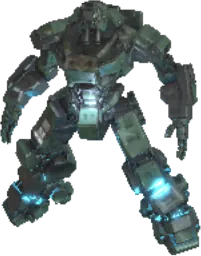
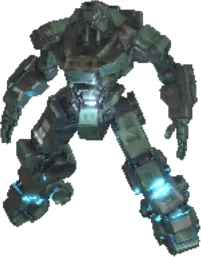
Presenting gesture: open "here it is" arms instead of a raised forearm
The far forearm pointed almost straight up, which read as an Egyptian
pose. Both arms now reach toward the description: the far arm out at
about shoulder height with a soft elbow, the near forearm level at the
waist. The guide stills are re-rendered from the live scene to match.

diff --git a/src/styles/editorial-refinements.css b/src/styles/editorial-refinements.css
@@ -206,16 +206,16 @@ body.overflow-x-hidden { overflow-x: clip; }
    the intro script in px, and scaled with viewport height like the 3D camera.
    Its feet anchor matches the 3D model's origin. Never mirrored: a flat
    image flipping sides reads as a card flip; only the live 3D guide turns. */
-.guide-poster { position: fixed; left: 0; top: 0; z-index: 5; height: 30.667vh; height: 30.667dvh;
+.guide-poster { position: fixed; left: 0; top: 0; z-index: 5; height: 29.333vh; height: 29.333dvh;
   translate: var(--guide-x, 34vw) var(--guide-y, 80vh); pointer-events: none;
   transition: opacity .6s ease; }
-.guide-poster img { display: block; width: auto; height: 100%; translate: -36.23% -85.14%;
+.guide-poster img { display: block; width: auto; height: 100%; translate: -34.18% -84.28%;
   animation: guide-hover 4.5s ease-in-out infinite; }
 .guide-poster.is-away, .guide-poster.is-live { opacity: 0; }
 .guide-poster.is-live img { animation-play-state: paused; }
 @keyframes guide-hover { 0%, 100% { transform: translateY(0); } 50% { transform: translateY(-1.2%); } }
 @media (max-width: 699px) {
-  .guide-poster { height: 15.166vh; height: 15.166dvh; translate: var(--guide-x, 22vw) var(--guide-y, 72vh); }
-  .guide-poster img { translate: -25.17% -63.42%; }
+  .guide-poster { height: 15.225vh; height: 15.225dvh; translate: var(--guide-x, 22vw) var(--guide-y, 72vh); }
+  .guide-poster img { translate: -25.17% -63.18%; }
 }
 @media (prefers-reduced-motion: reduce) { .guide-poster, .guide-poster img { animation: none; transition: opacity .3s ease; } }

diff --git a/src/components/presentation.js b/src/components/presentation.js
@@ -9,13 +9,16 @@ export const PRESENTATION_CHAINS = {
   hand_r_041: 'middle1_r_043',
 };
 
-// One hand frames the description above, the other presents it below.
-// Mirrored in character space rather than reusing unlike local bone axes.
+// A "here it is" presenting gesture: both arms reach toward the description.
+// The far arm extends out at about shoulder height with a soft elbow (forearm
+// angled up-and-out, never vertical), the near arm rests by the body with its
+// forearm level. Mirrored in character space rather than reusing unlike local
+// bone axes.
 export function presentationDirection(name, side) {
   const raised = side > 0 ? name.includes('_l_') : name.includes('_r_');
-  if (name.startsWith('arm_')) return raised ? [side * 0.52, 0.16, 0.30] : [side * 0.28, -0.85, 0.20];
-  if (name.startsWith('forearm_')) return raised ? [side * 0.5, 0.8, 0.25] : [side * 0.8, 0.12, 0.55];
-  return [side * 0.8, raised ? 0.32 : 0.12, 0.25];
+  if (name.startsWith('arm_')) return raised ? [side * 0.88, 0.2, 0.3] : [side * 0.45, -0.72, 0.38];
+  if (name.startsWith('forearm_')) return raised ? [side * 0.82, 0.42, 0.25] : [side * 0.9, 0.12, 0.38];
+  return raised ? [side * 0.88, 0.3, 0.2] : [side * 0.9, 0.18, 0.25];
 }
 
 export function presentationNearDescription(guide, rectangles, width, height) {
